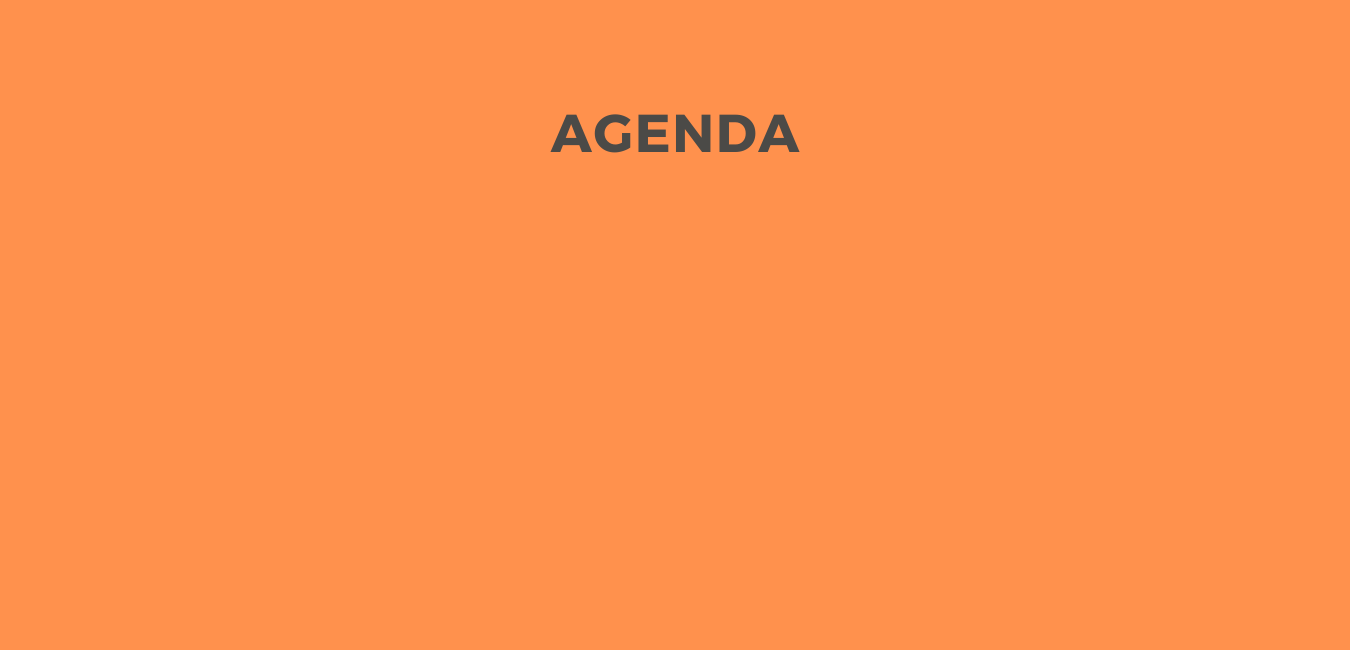
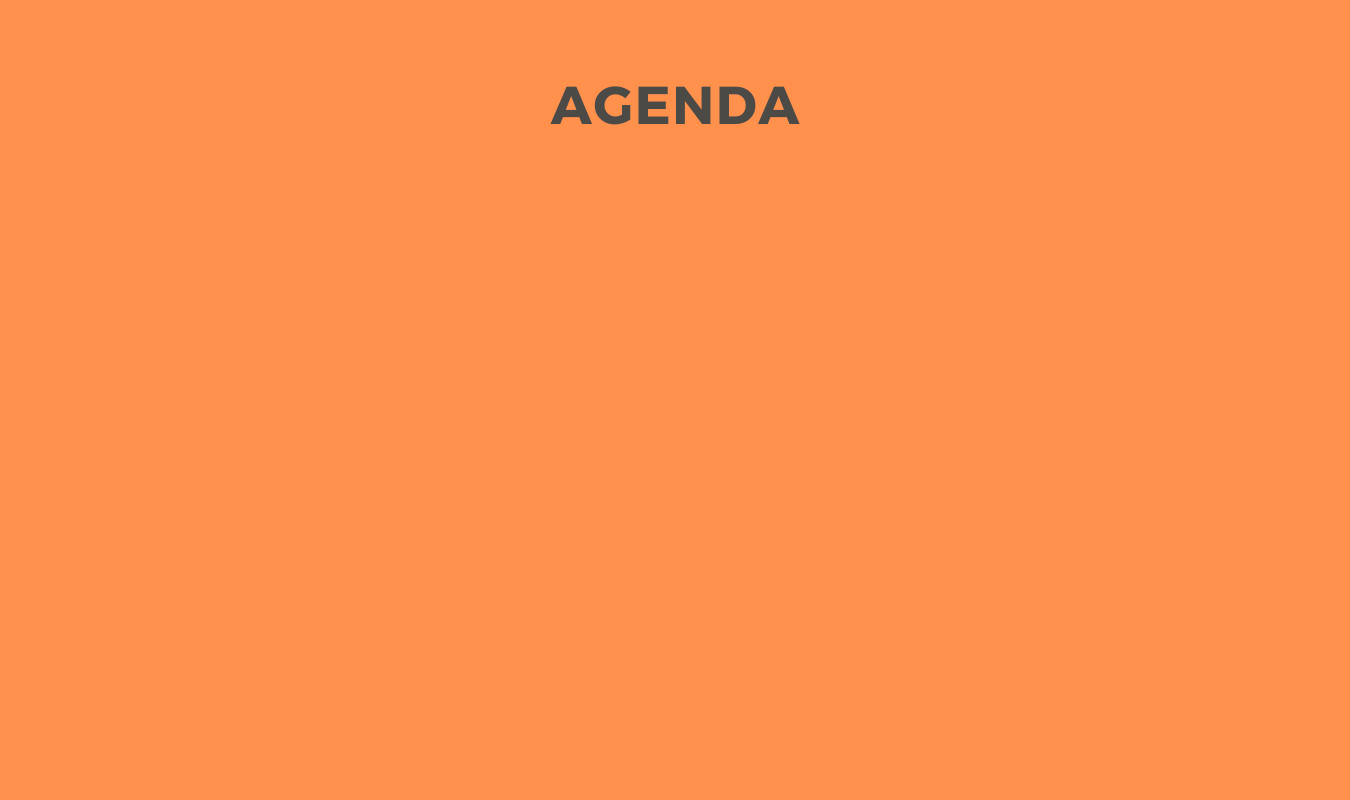
acertando img agenda

Changed region(s): [[0.4044, 0.0923, 0.5911, 0.2462]]

diff --git a/logado.html b/logado.html
@@ -60,7 +60,7 @@
                           <li><input type="checkbox" id="myCheck" > <input type="text" name="Nome" size="119"/></li>
                           <li><input type="checkbox" id="myCheck" > <input type="text" name="Nome" size="119"/></li>
                           <li><input type="checkbox" id="myCheck" > <input type="text" name="Nome" size="119"/></li>
-                          <li><input type="checkbox" id="myCheck" > <input type="text" name="Nome" size="170"/></li>
+                          <li><input type="checkbox" id="myCheck" > <input type="text" name="Nome" size="119"/></li>
                         </ul>
                         <button id="salvarAnotacao"> Salvar </button>
                     </fieldset> 

diff --git a/agenda.html b/agenda.html
@@ -34,8 +34,11 @@
             </ul>   
         </nav>
         <!--agenda-->
+
+       
         <section class="banner_agenda" id="agenda"> 
-           
+            
+                       
             <div id="cadaData">
                 <label for="data"> Data: </label>
            <input type="date" id="data" name="data">
@@ -180,6 +183,7 @@
                </ul>
                <textarea class=cxAgenda cols=35 id="opiniao" rows="5" name="opiniao" maxlength="100" wrap="hard"></textarea><br> 
             </div>
+            
         </section>
     </body>
 </html>

diff --git a/assets/style.css b/assets/style.css
@@ -149,7 +149,6 @@ margin: 8px;
 .diadia{
   background-image: url(img/diadia.png);
   background-size: cover;
-  height: 100vh;
   width: 100%;
   margin-top: 0;
   padding-top: 120px;
@@ -176,8 +175,8 @@ margin: 8px;
   
 }
 .banner_agenda{
-  background-color: #fc7f36;
-  height: 600px
+  background-image: url(img/agenda.png);
+  height: 680px;
   width: 100%;
   color: black; 
 }
